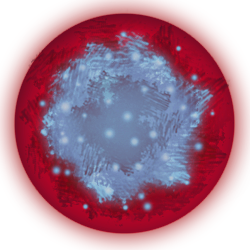
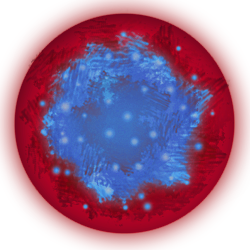
Help change, balance enemies, graphics change

diff --git a/Evolution/Evolution/Help.xaml b/Evolution/Evolution/Help.xaml
@@ -37,11 +37,10 @@
             <StackPanel VerticalAlignment="Center" Height="Auto" Margin="15" >
                 <TextBlock FontSize="19" HorizontalAlignment="Center" TextWrapping="Wrap"  VerticalAlignment="Center" Height="Auto">Your goal in this game is to become the greatest of all life forms!
                 Green cells are smaller than you, so you can consume them, increasing your size, and score. Red cells are bigger than you. Watch out, they consume you if you get close to them!
-                There are two kinds of enemies: the ordinary ones are moving into only one direction. The intelligent ones are following smaller cells to consume them, or flee from the bigger ones.
+                There are two kinds of enemies: the ordinary ones are moving into only one direction. The intelligent ones (with blue core) are following smaller cells to consume them, or flee from the bigger ones. 
                 Black-purple objects are antimatters, contact leads to decrease both objects's size. There are also two kinds of infection: one with the
                 lightning emblem cause size decreasing for a while, the other one has an effect to your moving.
-            Be quick! Smaller cells will disappear quickly, and completing the level will become almost impossible.
-            In this case, orange (rage) objects come in handy. With rage on, you can consume bigger cells.
+            Occasionally, orange (rage) objects appears, catching this causes rage effect on player. With rage on, you can consume bigger cells.
                 </TextBlock>
                 <TextBlock FontSize="19" TextWrapping="Wrap" >
                     <Bold>Moving:<LineBreak/></Bold>

diff --git a/Evolution/Evolution/GamePage.xaml.cs b/Evolution/Evolution/GamePage.xaml.cs
@@ -123,30 +123,62 @@ namespace Evolution
         // E metódus segítségébel az objektumokat szignatúra alapján, univerzálisan tudjuk hozzáadni a listához
         void AddObjects(Cell obj, Texture2D texture, int number, int maxRad, Vector2 velocity)
         {
-            float ran, X, Y, dist = 100;
+            float radius;
+            Vector2 position;
             for (int i = 0; i < number; i++)
             {
-                X = rnd.Next(50, 750);
-                Y = rnd.Next(50, 430);
-                // ezeken majd még javítani kell, hogy univerzális legyen:
-                //X = rnd.Next(maxRad * 2, (int)this.ActualHeight - maxRad * 2);
-                //Y = rnd.Next(maxRad * 2, (int)this.ActualWidth - maxRad * 2);
-                if (X < player.Origo.X + dist && X > player.Origo.X - dist && Y < player.Origo.Y + dist && Y > player.Origo.Y - dist) // távolságot kell, hogy hagyjunk a player és az új objektumok között
-                {
-                    i--;
-                    continue;
-                }
-                if (maxRad == 0) ran = 13; // az infection-ök mérete rögzített
-                else if (maxRad < 0) ran = rnd.Next((int)player.R, Math.Abs(maxRad)); // ha nagyobb ellenséget adunk hozzá, tudnunk kell róla, így csak a player sugara és maxRad között generálhatunk számokat
-                else ran = rnd.Next(3, maxRad);
+                position = GetRandomPositionAroundPlayer();
+                if (maxRad == 0) radius = 13; // az infection-ök mérete rögzített
+                else if (maxRad < 0) radius = rnd.Next((int)player.R, Math.Abs(maxRad)); // ha nagyobb ellenséget adunk hozzá, tudnunk kell róla, így csak a player sugara és maxRad között generálhatunk számokat
+                else radius = rnd.Next(5, maxRad);
                 if (obj is IntelligentEnemy) obj = new IntelligentEnemy();  // TODO: ezen szépíteni kéne
                 else if (obj is Enemy) obj = new Enemy();
                 else if (obj is AntiMatter) obj = new AntiMatter();
                 else if (obj is SizeDecrease) obj = new SizeDecrease();
                 else if (obj is InverseMoving) obj = new InverseMoving();
-                obj.SetAttributes(this, texture, new Vector2(X, Y), velocity, ran);
+                obj.SetAttributes(this, texture, position, velocity, radius);
                 objects.Add(obj);
             }
+        }
+
+        void AddSmallerEnemyToBalance(GameObjectCount Count)
+        {
+            Cell enemy;
+            Texture2D texture;
+            if (rnd.Next(0, 3) < 1)
+            {
+                enemy = new Enemy();
+                texture = tx_enemy_smaller;
+            }
+            else
+            {
+                enemy = new IntelligentEnemy();
+                texture = tx_intellienemy_smaller;
+            }
+            Vector2 position = GetRandomPositionAroundPlayer();
+            float radius;
+            if(player.R < 2) radius = player.R - 0.1f;
+            else if(player.R < 5) radius = rnd.Next(3, (int)player.R);
+            else if(player.R > 20) radius = rnd.Next(20, (int)player.R);
+            else radius = rnd.Next((int)player.R - 5, (int)player.R);
+            enemy.SetAttributes(this, texture, position, GetRanVelocity(speed), radius);
+            objects.Add(enemy);
+        }
+
+        Vector2 GetRandomPositionAroundPlayer()
+        {
+            float dist = 100;
+            float X, Y;
+            // ezeken majd még javítani kell, hogy univerzális legyen:
+            //X = rnd.Next(maxRad * 2, (int)this.ActualHeight - maxRad * 2);
+            //Y = rnd.Next(maxRad * 2, (int)this.ActualWidth - maxRad * 2);
+            do
+            {
+                X = rnd.Next(50, 750);
+                Y = rnd.Next(50, 430);
+            }
+            while (X < player.Origo.X + dist && X > player.Origo.X - dist && Y < player.Origo.Y + dist && Y > player.Origo.Y - dist); // távolságot kell, hogy hagyjunk a player és az új objektumok között
+            return new Vector2(X, Y);
         }
 
         Vector2 GetRanVelocity(float speed)
@@ -212,7 +244,7 @@ namespace Evolution
             n_enemy = 4;
             n_intellienemy = 6;
             n_antim = 10;
-            rageCycle = 20;
+            rageCycle = 60;
             rageDuration = 6;
             n_inf = 3;
             speed = 0.1f;
@@ -287,6 +319,7 @@ namespace Evolution
         void gt_game_Update(object sender, GameTimerEventArgs e)
         {
             t_game += 1;
+            BalanceEnemies();
         }
 
         void gt_rageOn_Update(object sender, GameTimerEventArgs e)
@@ -351,6 +384,44 @@ namespace Evolution
                 rageObject = false;
                 foreach (Cell obj in objects) if (obj is Rage) { objects.Remove(obj); break; }
             }
+        }
+
+        private void BalanceEnemies()
+        {
+            int ratio = 3;
+            int maxSmallerEnemies = 30;
+            GameObjectCount count = CountObjects();
+            if (count.SmallerEnemies < count.GreaterEnemies * ratio && count.SmallerEnemies < maxSmallerEnemies)
+                AddSmallerEnemyToBalance(count);
+        }
+
+        class GameObjectCount
+        {
+            public GameObjectCount()
+            {
+                GreaterEnemies = 0;
+                SmallerEnemies = 0;
+                AllEnemies = 0;
+            }
+
+            public int GreaterEnemies { get; set; }
+            public int SmallerEnemies { get; set; }
+            public int AllEnemies { get; set; }
+        }
+
+        private GameObjectCount CountObjects()
+        {
+            GameObjectCount count = new GameObjectCount();
+            foreach (Cell gameobject in objects)
+            {
+                if (gameobject is Enemy)
+                {
+                    count.AllEnemies++;
+                    if (gameobject.R < player.R) count.SmallerEnemies++;
+                    else count.GreaterEnemies++;
+                }
+            }
+            return count;
         }
 
         /// <summary>
@@ -603,7 +674,6 @@ namespace Evolution
                 e.Cancel = true;
             }
         }
-
 
     }
 
